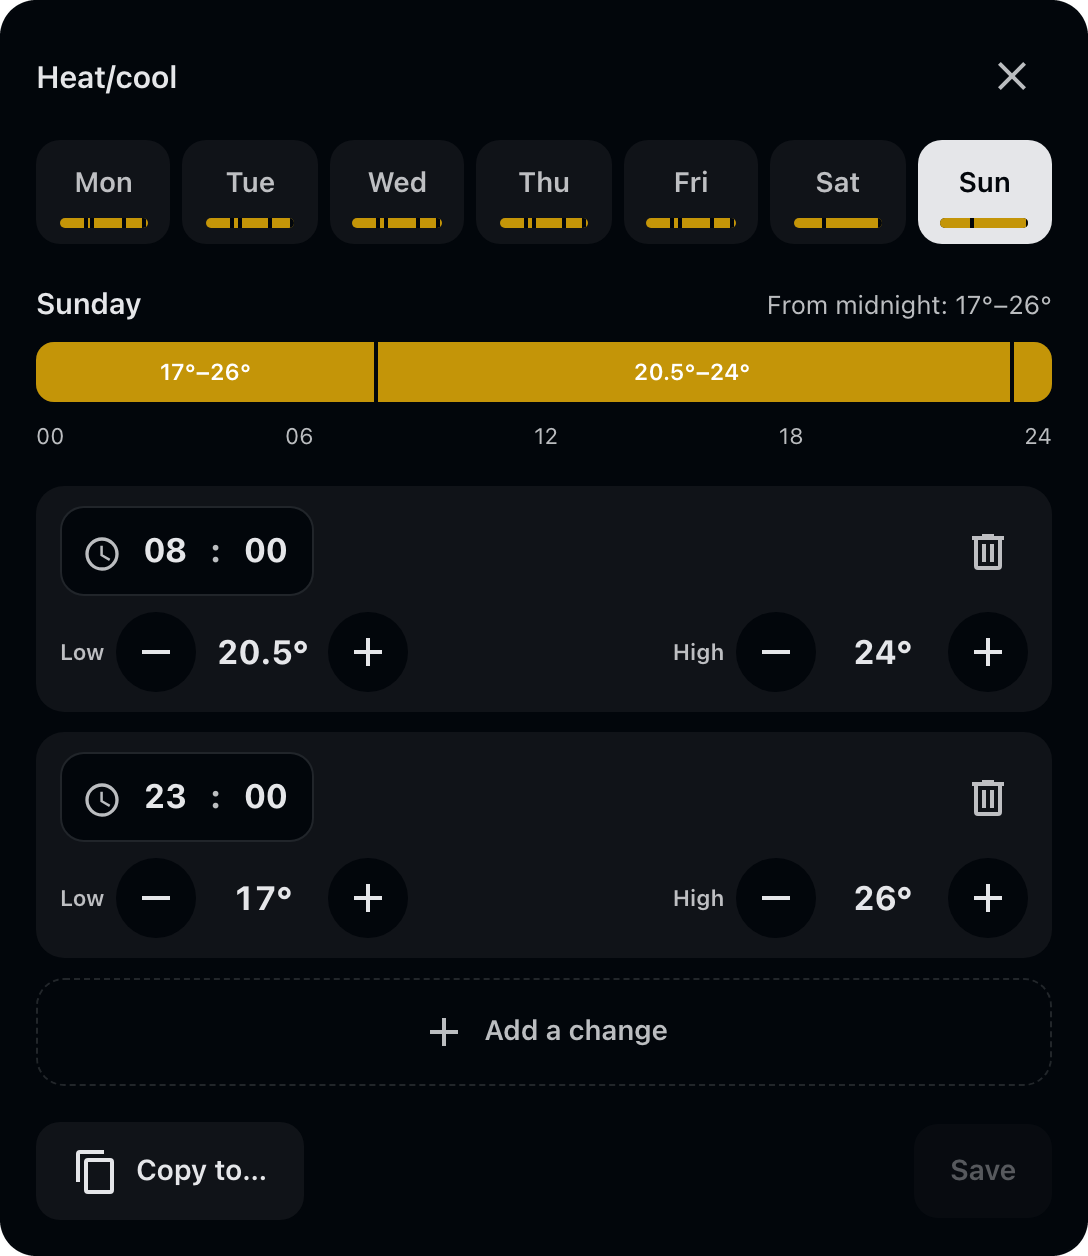
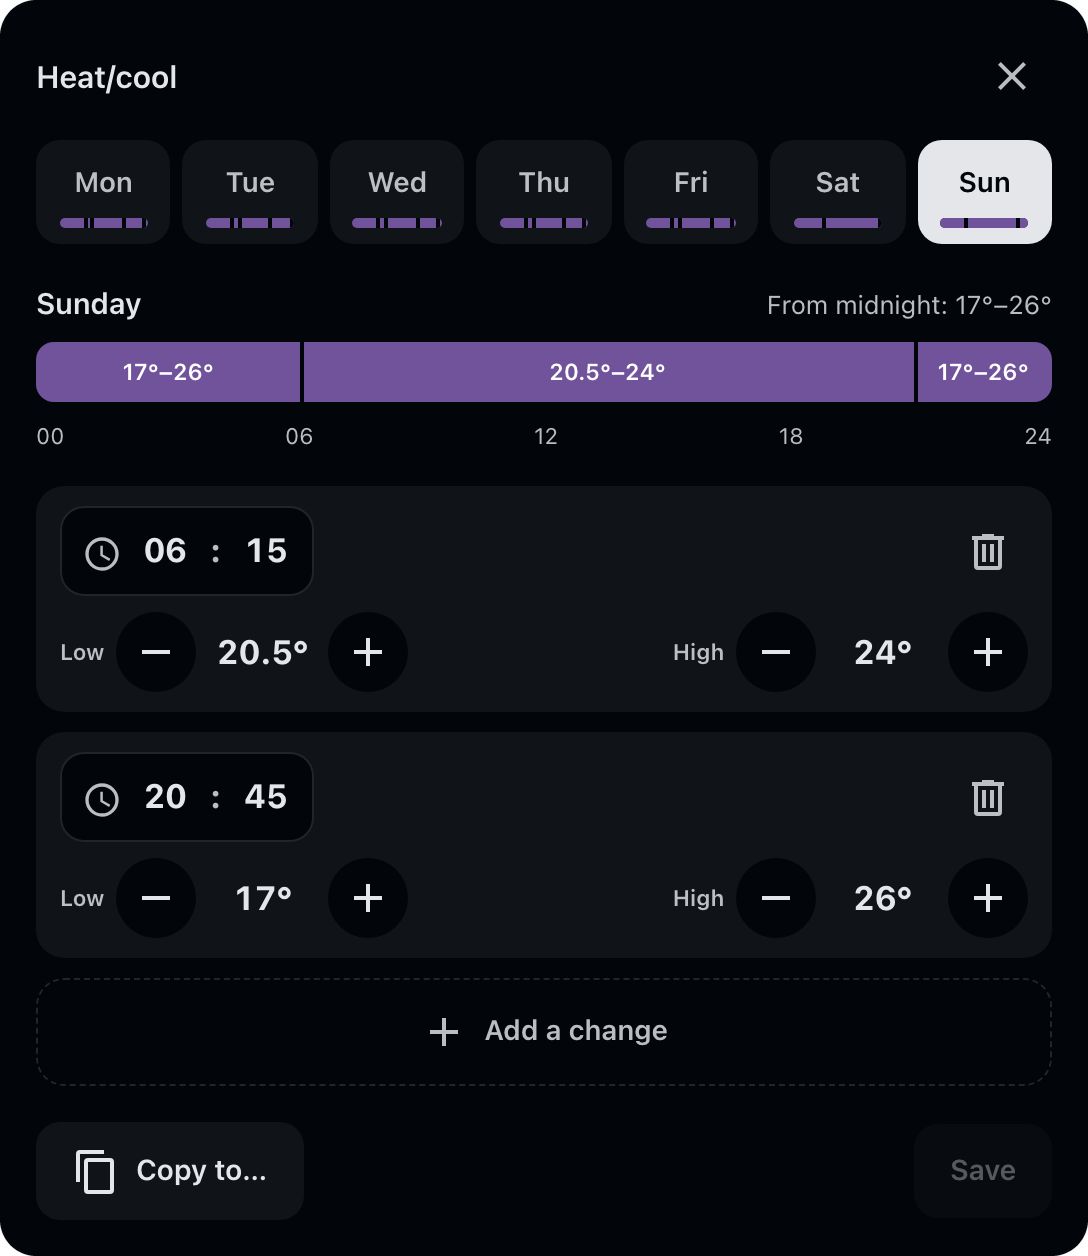
cards: show heat-cool schedules in home assistant's purple

diff --git a/custom_components/unfr0zen/frontend/unfr0zen-cards.js b/custom_components/unfr0zen/frontend/unfr0zen-cards.js
@@ -329,9 +329,10 @@ const STYLES = `
     --u0-warm: var(--state-climate-cool-color, #2196f3);
     --u0-cool: color-mix(in srgb, var(--u0-warm) 22%, var(--u0-card));
   }
-  /* A range schedule (heat-cool) in Home Assistant's heat-cool colour. */
+  /* A range schedule (heat-cool) in Home Assistant's purple, between its
+     heating and cooling colours. */
   :host(.ranging) {
-    --u0-warm: var(--state-climate-heat-cool-color, #ffc107);
+    --u0-warm: var(--purple-color, #926bc7);
     --u0-cool: color-mix(in srgb, var(--u0-warm) 22%, var(--u0-card));
   }
   ha-card, .panel {

diff --git a/README.md b/README.md
@@ -95,7 +95,7 @@ and the heating card show and change that one:
 |-|-|-|
 | Heat | heating setpoints | events titled `20.5 °C`; the card says **Heating** |
 | Cool | cooling setpoints | events titled `24 °C`; the card says **Cooling**, in Home Assistant's cooling colour |
-| Heat·Cool | a low and a high at each change, the Nest heating below the low and cooling above the high | events titled `19–24 °C`; the card says **Heat/cool**, with a low and a high for each change |
+| Heat·Cool | a low and a high at each change, the Nest heating below the low and cooling above the high | events titled `19–24 °C`; the card says **Heat/cool**, in Home Assistant's purple, with a low and a high for each change |
 
 To set cooling setpoints, switch the Nest to Cool (on the unit or its climate entity), then edit the schedule; for
 heat-cool ones, Heat·Cool. Switch back and each schedule is as you left it: each mode keeps its own. The Nest takes a
